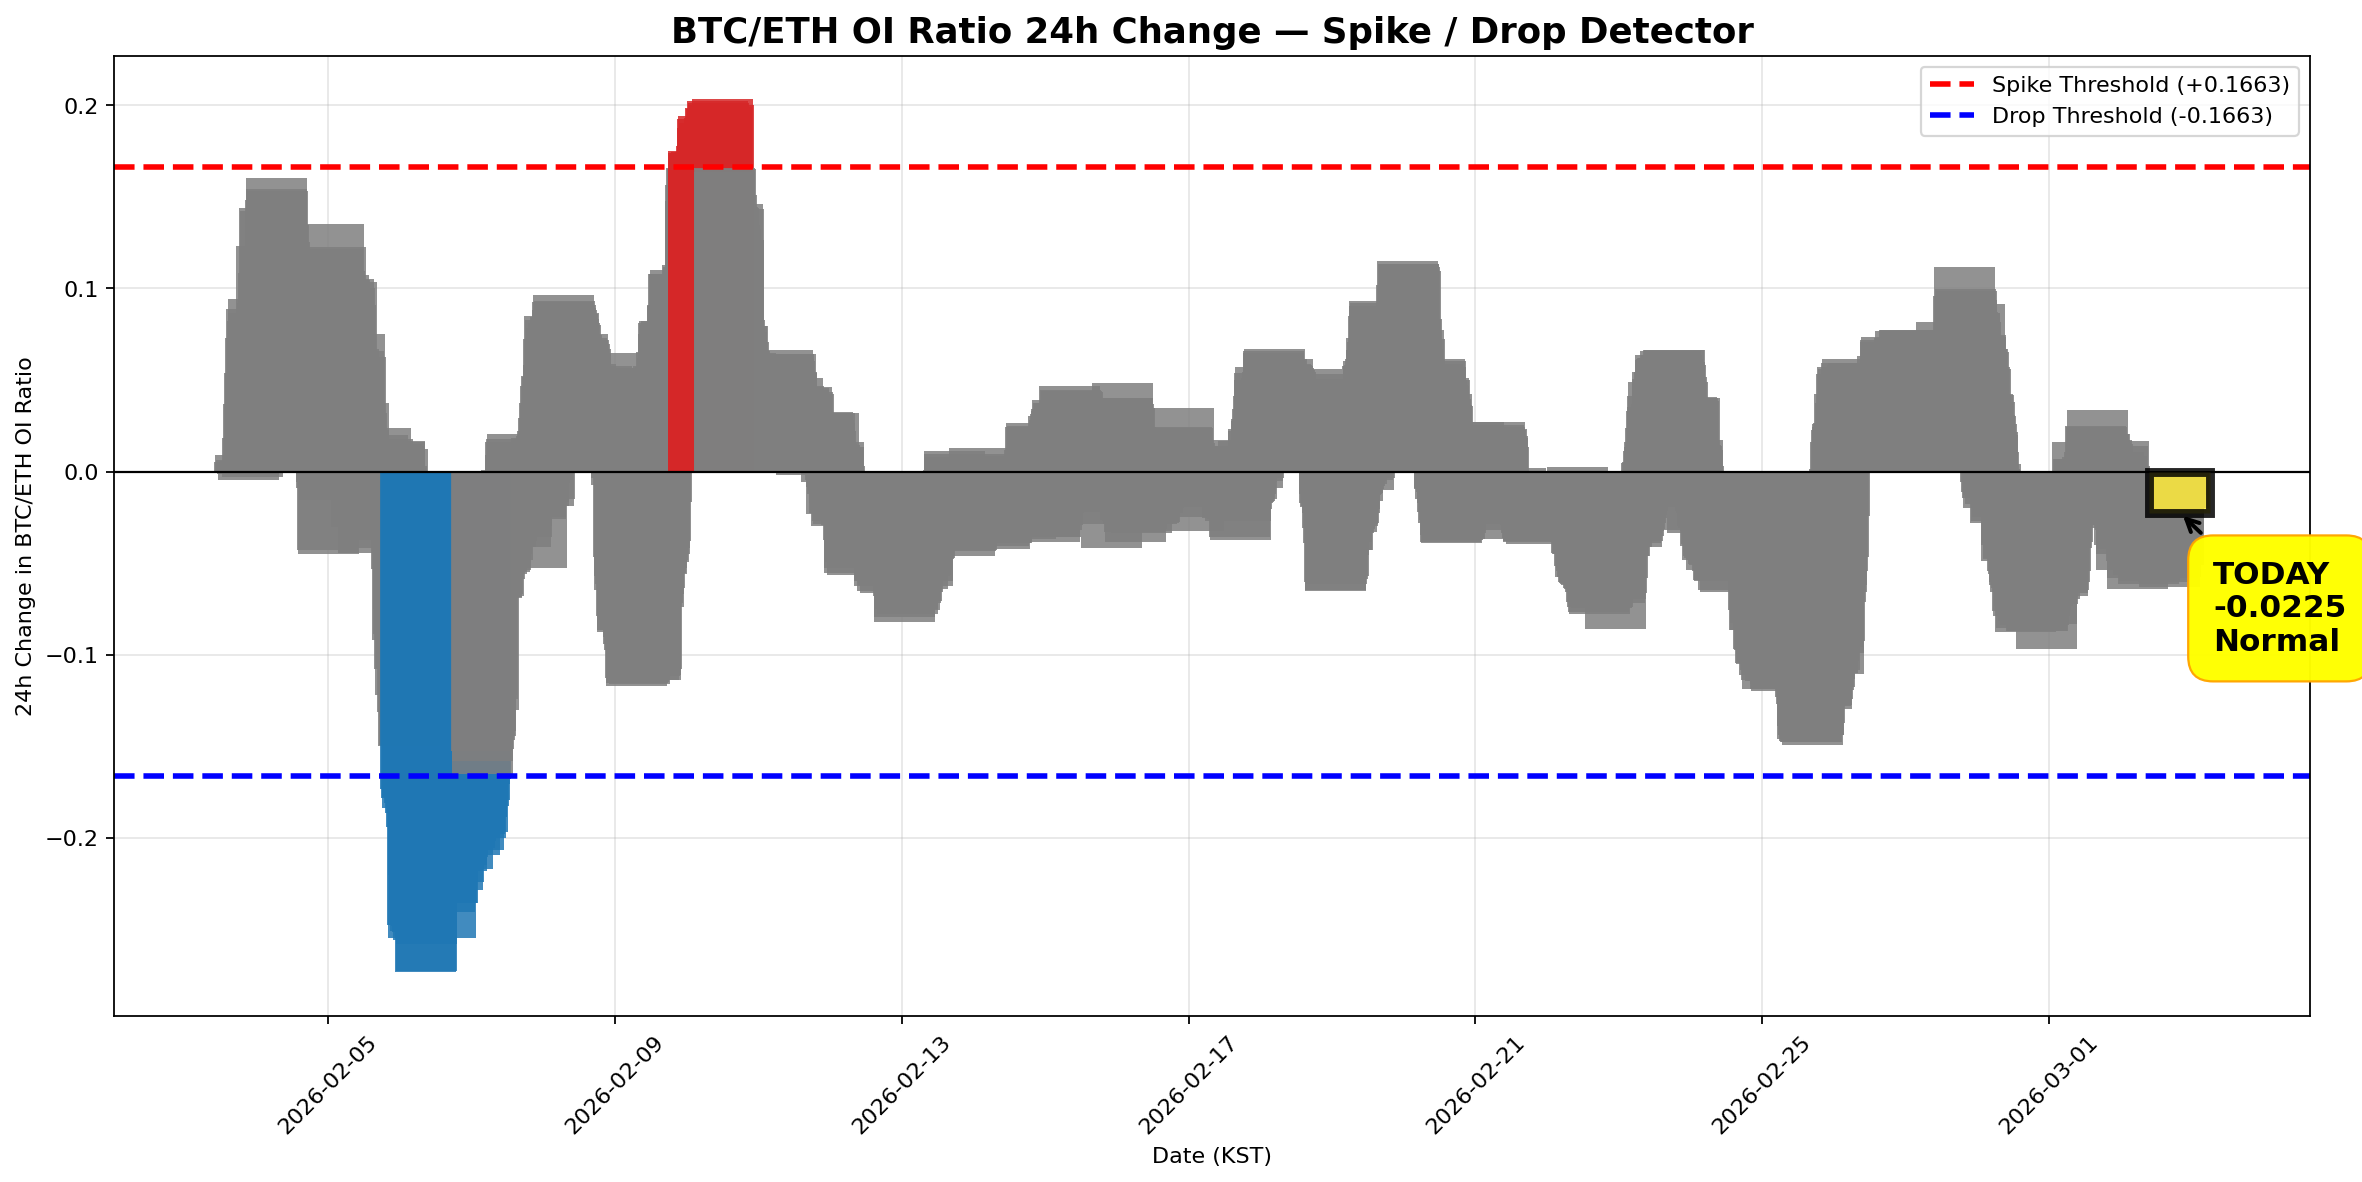
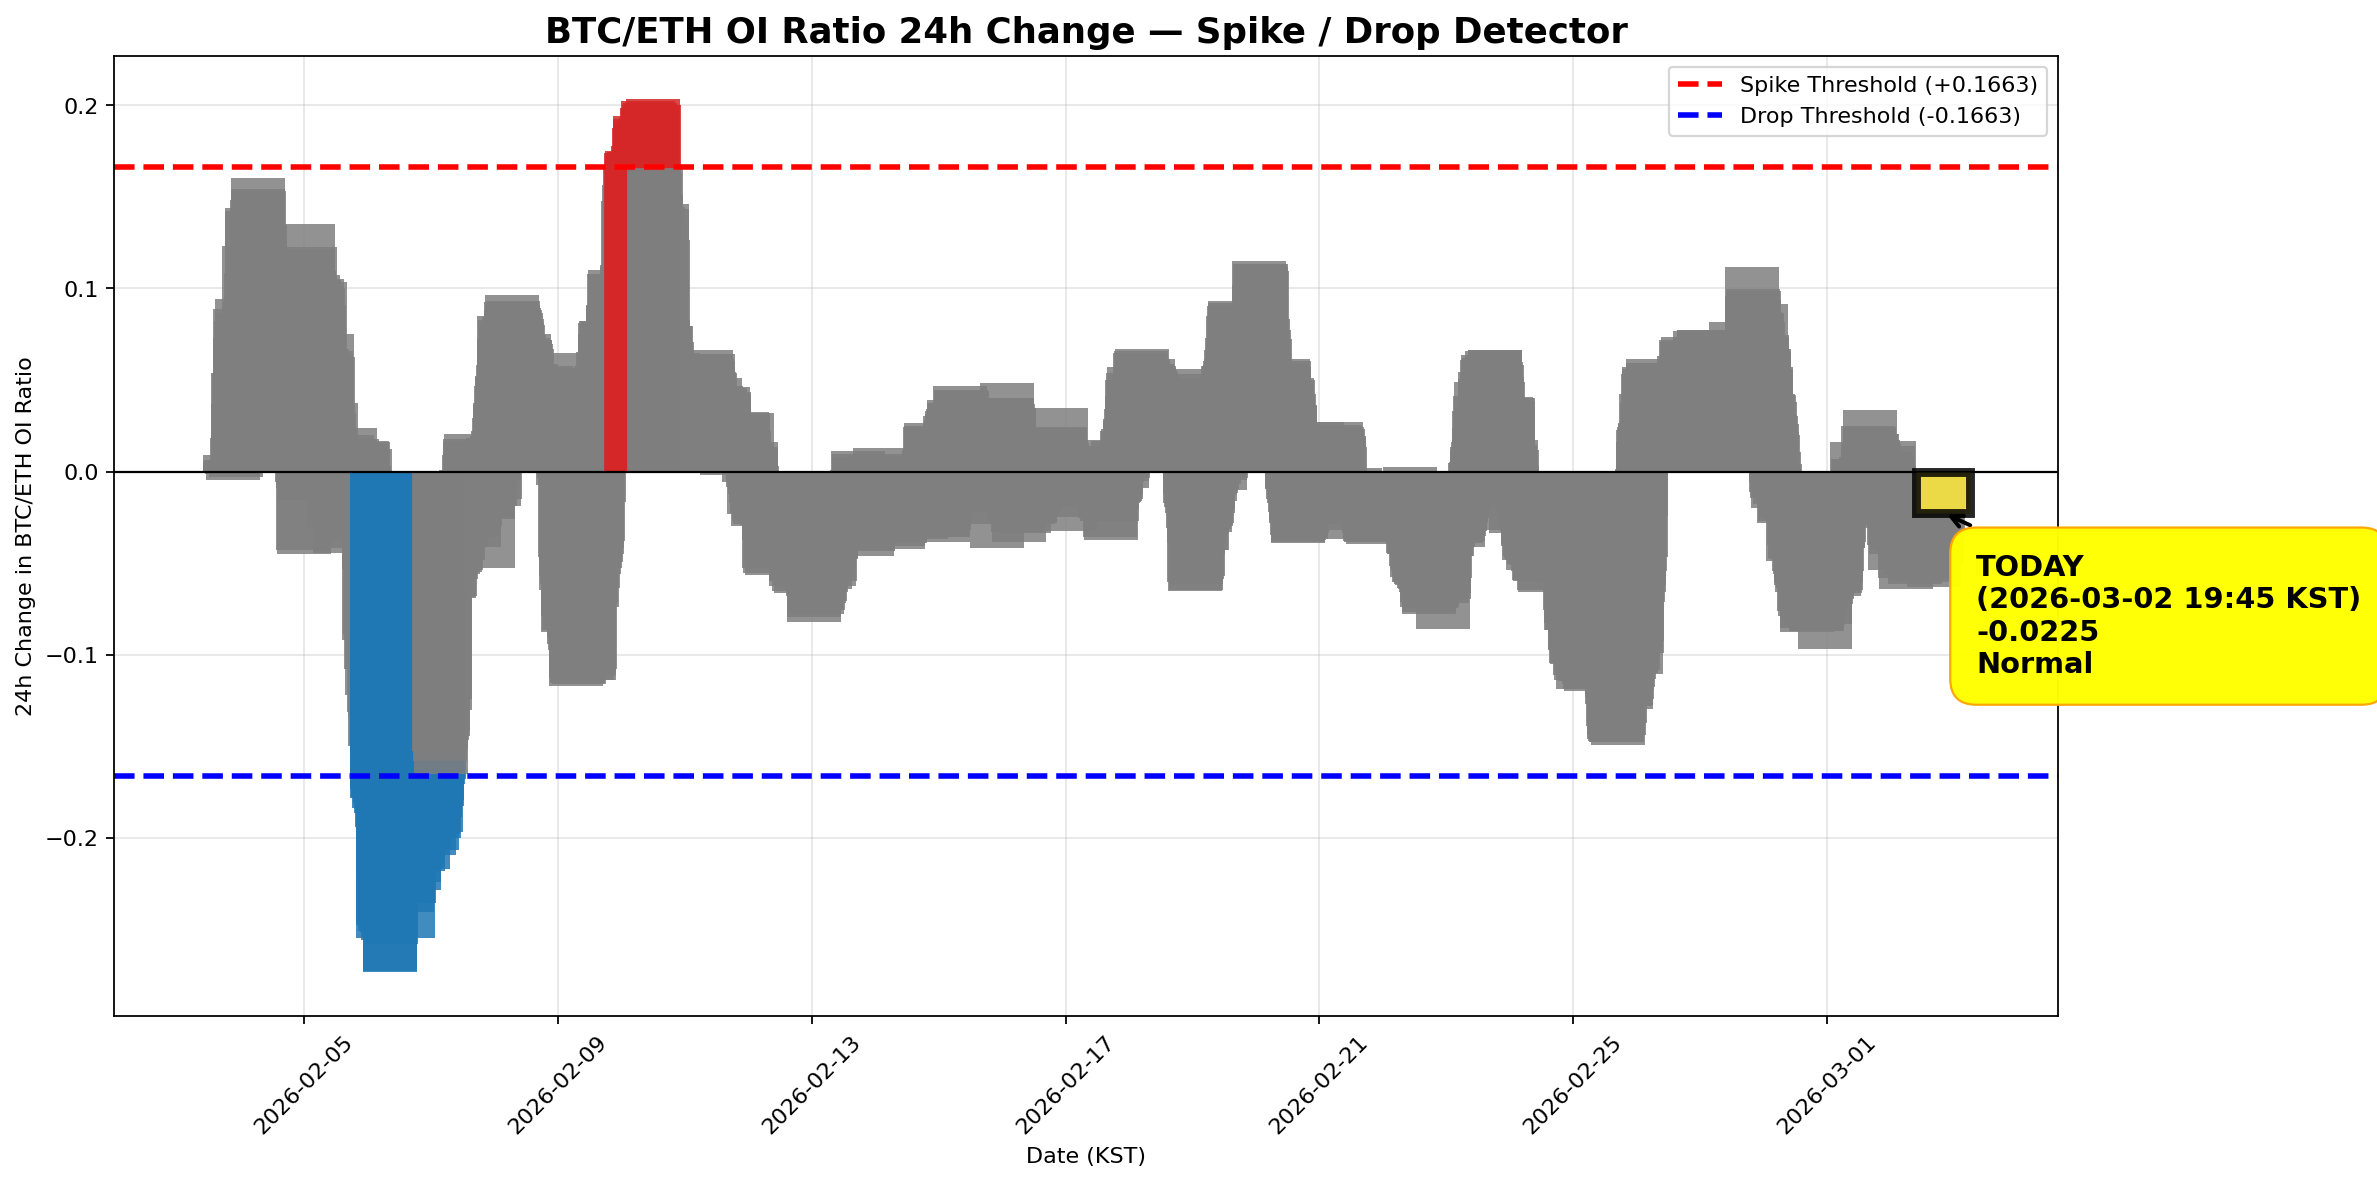
current status on oi change

diff --git a/src/open_interest/analyze_oi_standalone.py b/src/open_interest/analyze_oi_standalone.py
@@ -74,7 +74,7 @@ class BTCETHOIAnalyzerStandalone:
         start_time = end_time - pd.Timedelta(days=60)
         plot_df = self.recent[self.recent.index >= start_time].copy()
         
-        # === FIX: Drop rows with NaN 24h change (latest row often incomplete) ===
+        # Drop rows with NaN 24h change (latest row often incomplete)
         plot_df = plot_df.dropna(subset=['oi_ratio_24h_change']).copy()
         
         # Convert to KST
@@ -100,9 +100,10 @@ class BTCETHOIAnalyzerStandalone:
                    label=f'Drop Threshold (-{self.large_oi_threshold:.4f})')
         plt.axhline(0, color='black', lw=1)
         
-        # FORCE TODAY HIGHLIGHT (now always works)
+        # FORCE TODAY HIGHLIGHT
         latest_idx = -1
         latest_change = plot_df['oi_ratio_24h_change'].iloc[latest_idx]
+        latest_time_str = plot_df.index[latest_idx].strftime("%Y-%m-%d %H:%M KST")
         latest_bar = bars[latest_idx]
         
         latest_bar.set_color('#ffeb3b')
@@ -118,17 +119,17 @@ class BTCETHOIAnalyzerStandalone:
         else:
             status = "Normal"
         
-        # Annotation with arrow
-        offset_y = 38 if latest_change >= 0 else -62
-        plt.annotate(f'TODAY\n{latest_change:+.4f}\n{status}', 
+        # Annotation with time + arrow
+        offset_y = 42 if latest_change >= 0 else -72
+        plt.annotate(f'TODAY\n({latest_time_str})\n{latest_change:+.4f}\n{status}', 
                     xy=(plot_df.index[latest_idx], latest_change),
                     xytext=(15, offset_y),
                     textcoords='offset points',
-                    fontsize=14,
+                    fontsize=13,
                     fontweight='bold',
                     ha='left',
                     arrowprops=dict(arrowstyle='->', color='black', lw=1.8),
-                    bbox=dict(boxstyle="round,pad=0.8", facecolor='yellow', alpha=0.98, edgecolor='orange'))
+                    bbox=dict(boxstyle="round,pad=0.9", facecolor='yellow', alpha=0.98, edgecolor='orange'))
         
         plt.title('BTC/ETH OI Ratio 24h Change — Spike / Drop Detector', 
                  fontsize=16, fontweight='bold')
@@ -142,7 +143,7 @@ class BTCETHOIAnalyzerStandalone:
         plt.savefig('btc_eth_oi_spike_detector.png', dpi=160, bbox_inches='tight')
         plt.close()
         
-        print(f"   • btc_eth_oi_spike_detector.png  →  {status} ({latest_change:+.4f})")
+        print(f"   • btc_eth_oi_spike_detector.png  →  {status} ({latest_change:+.4f}) @ {latest_time_str}")
         print(f"     Thresholds (±95th percentile): ±{self.large_oi_threshold:.4f}")
 
     def run(self):
@@ -153,7 +154,7 @@ class BTCETHOIAnalyzerStandalone:
         print("\n✅ Standalone OI Analysis complete! Charts saved:")
         print("   • btc_eth_large_oi_vs_price.png")
         print("   • btc_eth_oi_14d_standalone.png")
-        print("   • btc_eth_oi_spike_detector.png   ← TODAY always highlighted!")
+        print("   • btc_eth_oi_spike_detector.png   ← TODAY always highlighted with exact time!")
 
 if __name__ == "__main__":
     analyzer = BTCETHOIAnalyzerStandalone()
